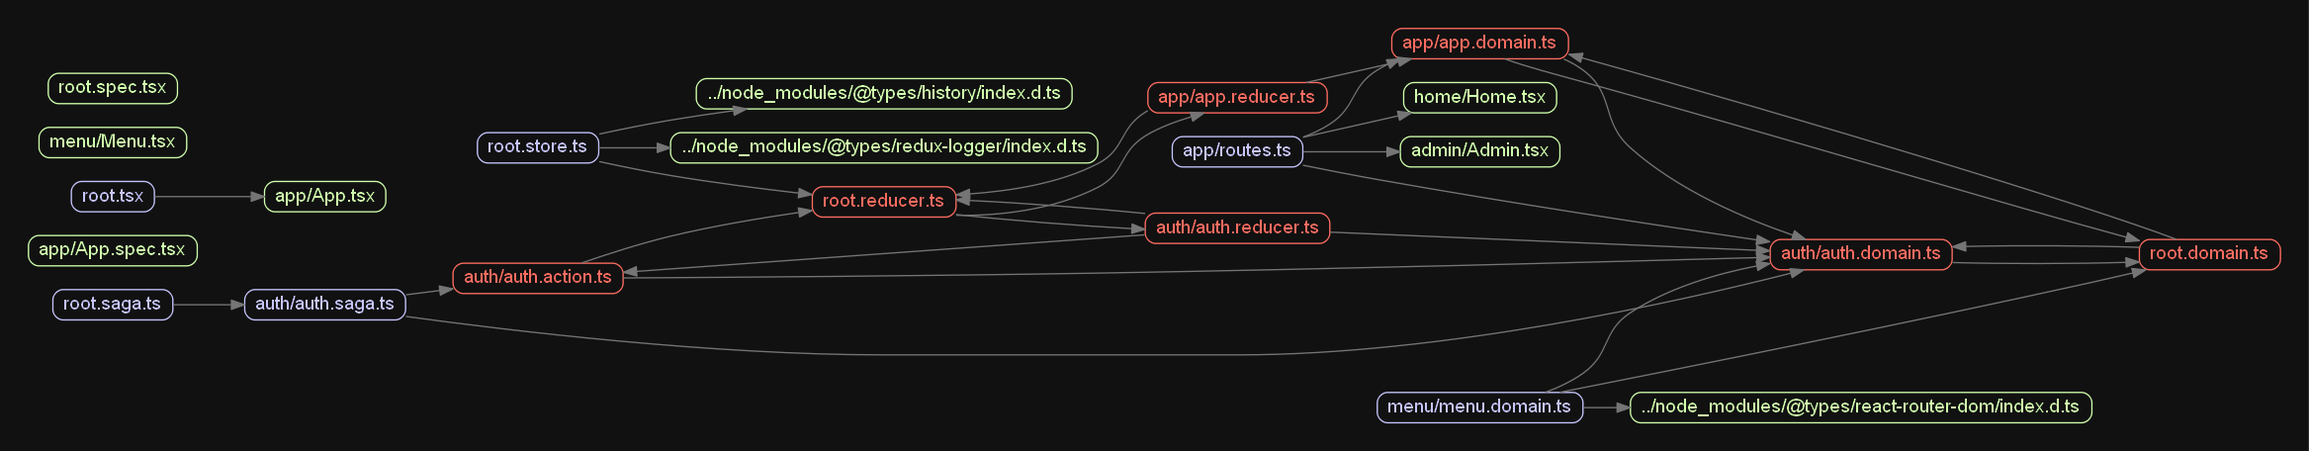
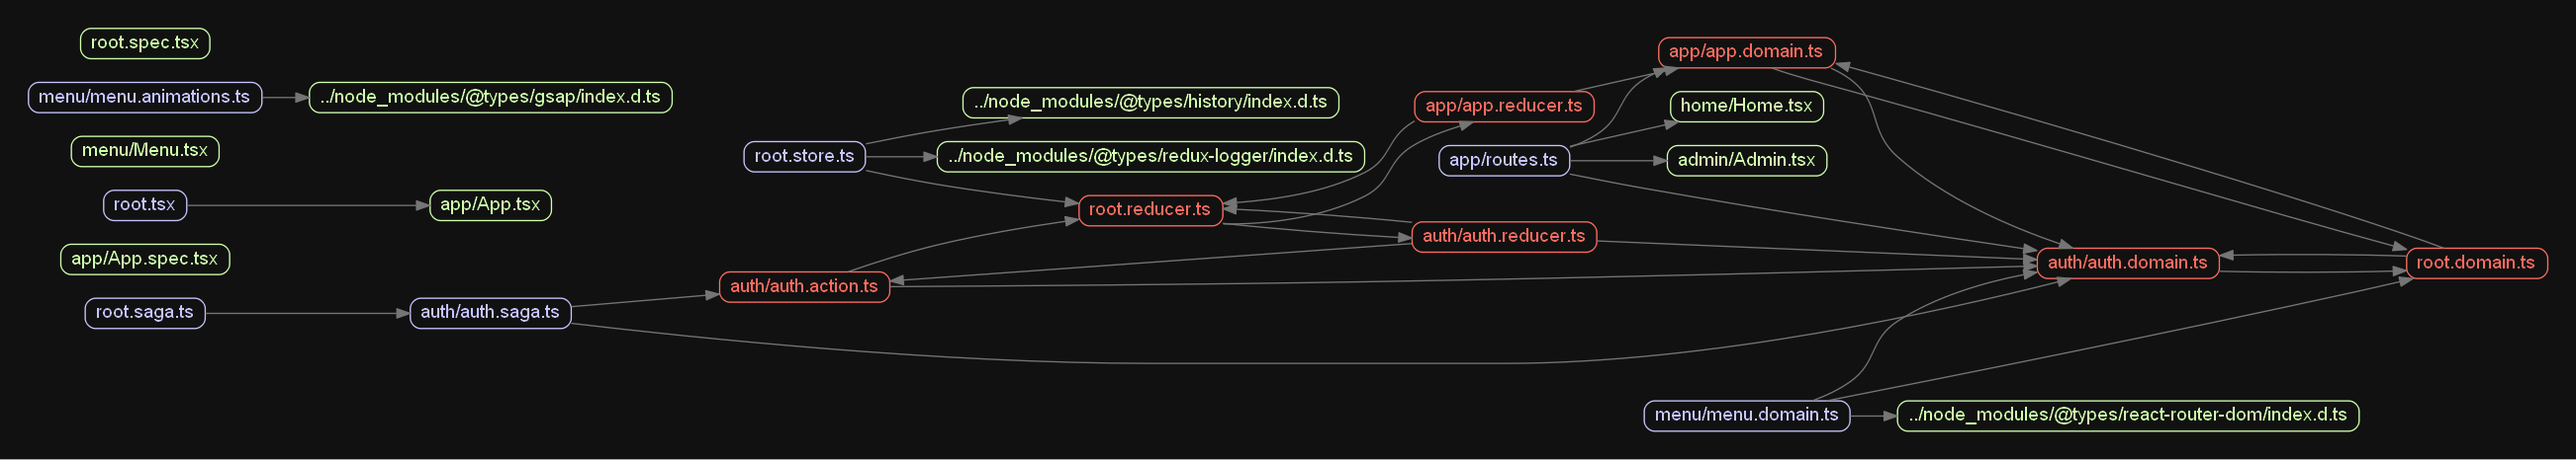
Added first proof of concept for animations

diff --git a/src/menu/Menu.tsx b/src/menu/Menu.tsx
@@ -1,17 +1,22 @@
 import * as React from "react";
+import { Transition, TransitionGroup } from "react-transition-group";
 import { requestLogin } from "../auth/auth.action";
+import MenuAnimations from "./menu.animations";
 import { IProps, IState } from "./menu.domain";
 
 /**
  * Menu to be present on most pages
  */
 export default class Menu extends React.Component<IProps, IState> {
+  private rootRef: React.RefObject<HTMLDivElement>;
+
   constructor(props: IProps, state: IState) {
     super(props, state);
     this.state = {
       id: "",
       password: "",
     };
+    this.rootRef = React.createRef();
     this.handleIdChanged = this.handleIdChanged.bind(this);
     this.handlePasswordChanged = this.handlePasswordChanged.bind(this);
     this.handleFormSubmitted = this.handleFormSubmitted.bind(this);
@@ -42,10 +47,14 @@ export default class Menu extends React.Component<IProps, IState> {
       form = <span>Welcome, {this.props.user.name}</span>;
     }
     return (
-      <div>
-        <nav>{this.props.links}</nav>
-        {form}
-      </div>
+       <TransitionGroup>
+         <Transition in={true} timeout={300} enter={true} appear={true} onEnter={(node, isAppearing) => MenuAnimations.enter(node, null)}>
+          <div ref={this.rootRef}>
+            <nav>{this.props.links}</nav>
+            {form}
+          </div>
+       </Transition>
+       </TransitionGroup>
     );
   }
 

diff --git a/src/app/App.tsx b/src/app/App.tsx
@@ -8,9 +8,8 @@ import Menu from "../menu/Menu";
 import { IRootState } from "../root.domain";
 import { getHistory } from "../root.store";
 import { IProps } from "./app.domain";
-import routes from "./routes";
-
 import "./app.styles";
+import routes from "./routes";
 
 function fourOhFour() {
   return <h1 className="not-found">Not found!</h1>;
@@ -65,6 +64,11 @@ export class App extends React.Component<IProps> {
       </div>
     );
   }
+}
+
+function firstChild(props: any) {
+  const childrenArray = React.Children.toArray(props.children);
+  return childrenArray[0] || null;
 }
 
 function mapStateToProps(state: IRootState): IProps {

diff --git a/src/menu/menu.animations.ts b/src/menu/menu.animations.ts
@@ -1,0 +1,8 @@
+import { TweenLite } from "gsap";
+
+export default {
+    enter(target: HTMLElement, callback: any) {
+        console.log("yayy1!")
+        TweenLite.from(target, .5, {opacity: 0, onComplete: callback});
+    },
+};
